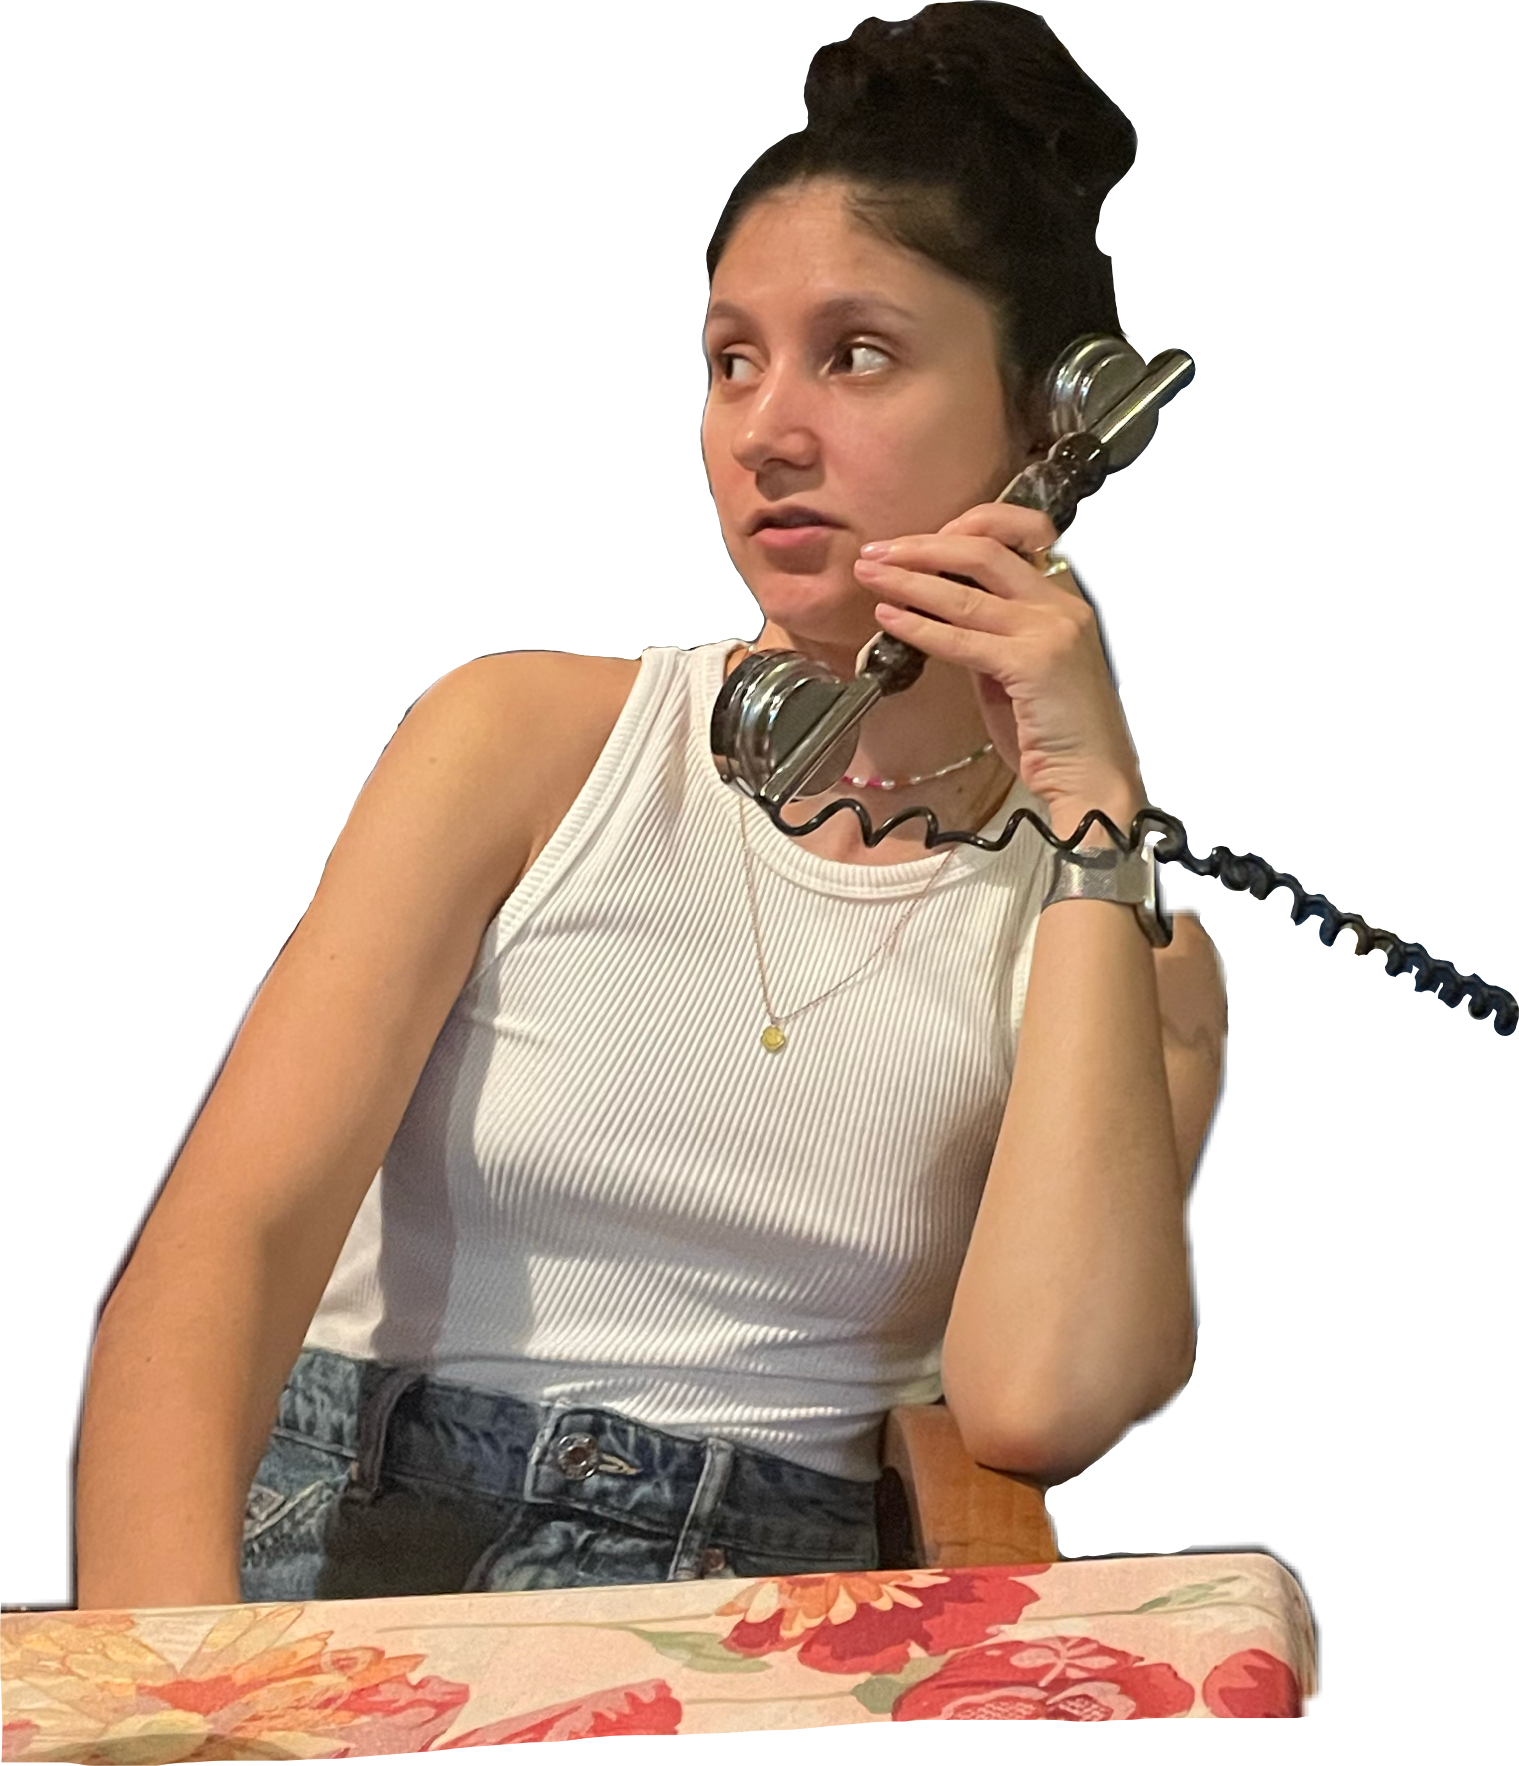
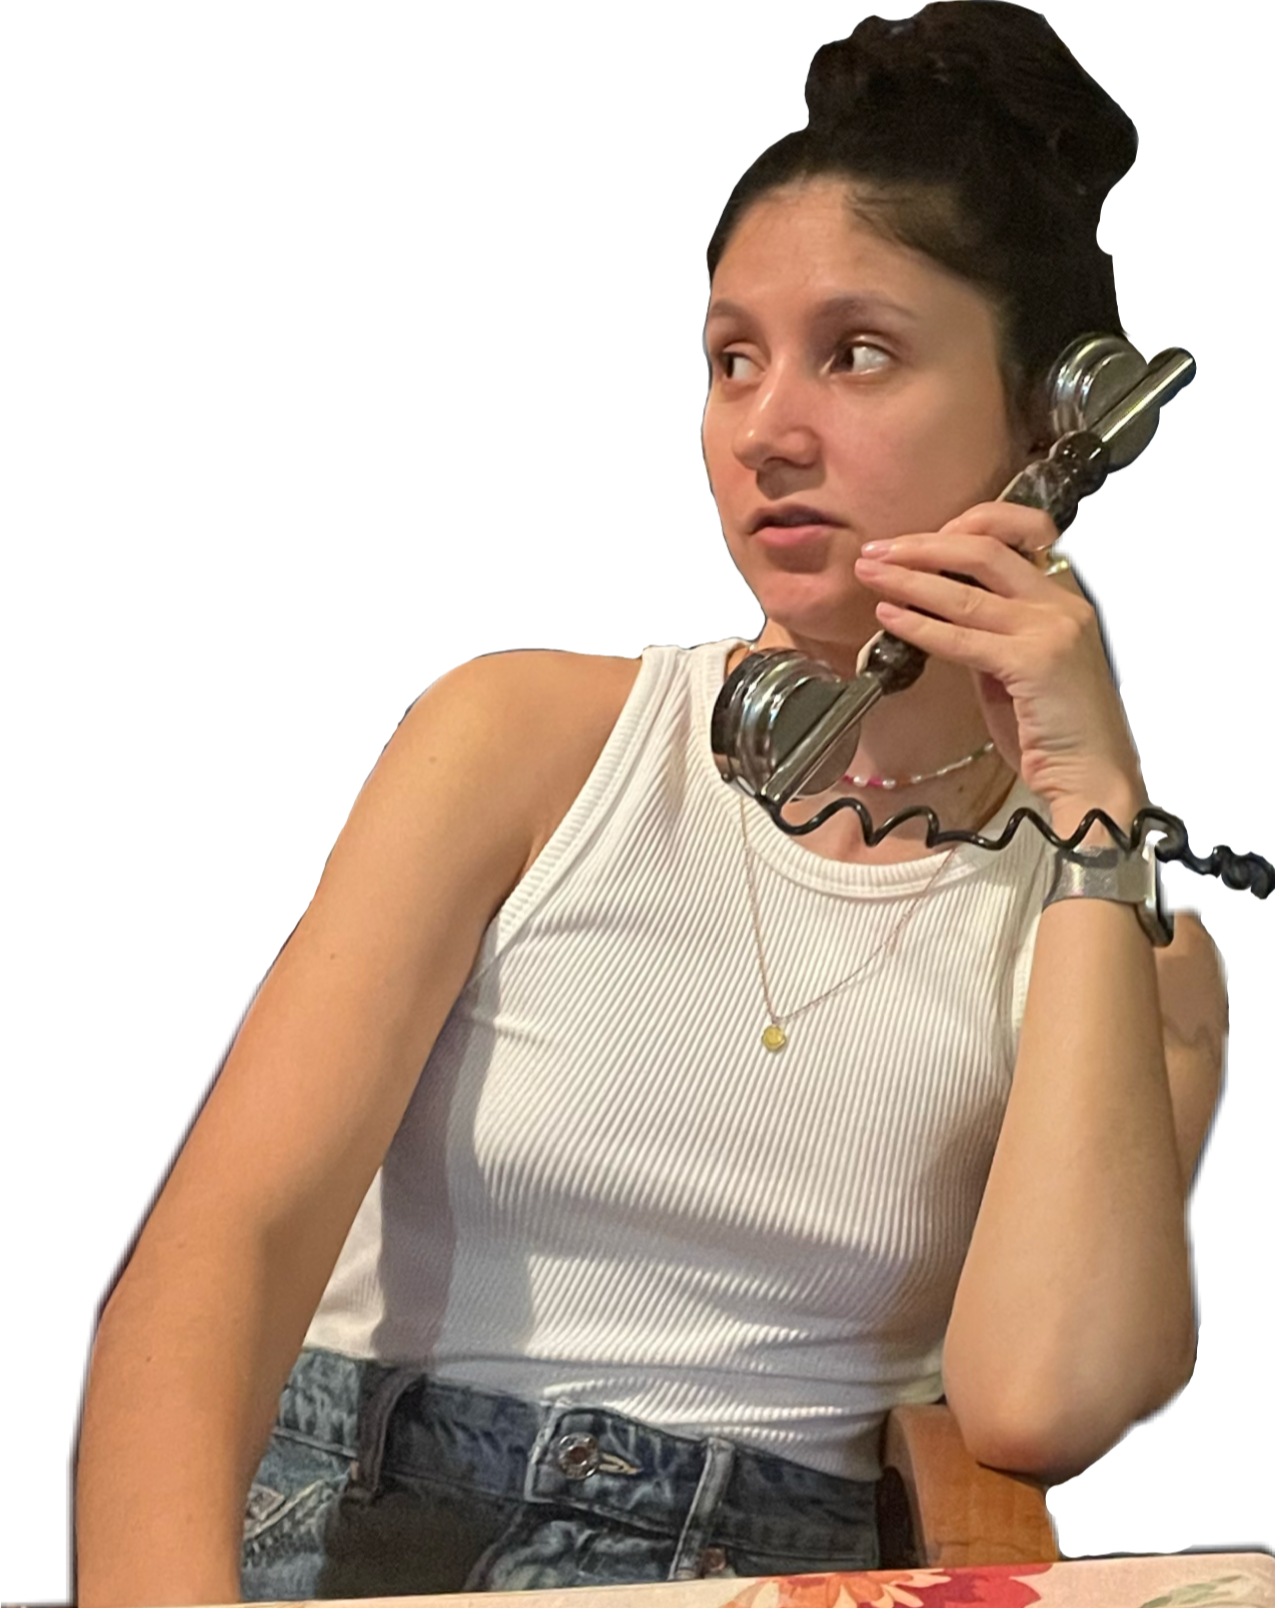
finish main dsign

diff --git a/index.html b/index.html
@@ -71,25 +71,38 @@
                         <p class="promo-text-capital">Hello, SOFTSWISS!</p>
                         <p class="promo-text-main">Are you looking for a retention specialist?</p>
                         <p class="promo-text-main">I prepared an exiting offer for you!</p>
-                        <p class="promo-text-capital">HIRE</p>
-                        <p class="promo-text-main">Viktoriia Nigmatullina</p>
-                        <p class="promo-text-smaill">and you will automatically get
-                            - responsible employee
+                        <form action="https://web.telegram.org/k/#@viktoriianigmatullina" target="_blank">
+                            <button class="hire-button">
+                                <p class="promo-text-capital">HIRE</p>
+                                <p class="promo-text-capital">Viktoriia Nigmatullina</p>
+                            </button>                        
+                        </form>
+                        <p class="promo-text-smaill">and you will automatically get 
+                            <br>
+                            - responsible employee 
+                            <br>
                             - hard worker
+                            <br>
                             - team player
+                            <br>
                             - and just a  good person
                         </p>
-                        <button class="button">
-                            <p class="button-text">hire</p>
-                        </button>
-                        <p class="">*The offer is available only on March</p>
+                        <p class="promo-text-tiny">*The offer is available only on March</p>
                         <p class="promo-text-tiny">*salary expectations up to 850 EUR, this is negotiable</p>
                     </div>
                     <img class="photo-promo" src="./assets/photo.PNG" alt="photo Vika">
                 </div>
             </div>
         </main>
-        <footer class="footer">feel free to contact me</footer>
+        <footer class="footer">
+            <div class="container">
+                <div class="portfolio-container">Portfolio:
+                    <a class="game-link" href="https://rolling-scopes-school.github.io/viktoriiani-JSFE2022Q3/codejam-the-gem-puzzle/" target="_blank">the gem puzzle</a>
+                    <a class="game-link" href="https://rolling-scopes-school.github.io/viktoriiani-JSFEPRESCHOOL/random-game/" target="_blank">2048</a>
+                    <a class="game-link" href="https://rolling-scopes-school.github.io/viktoriiani-JSFEPRESCHOOL/random-jokes/" target="_blank">random jokes</a>
+                </div>
+            </div>
+        </footer>
     </div>
     <script src="scrypt.js"></script>
 </body>

diff --git a/style.css b/style.css
@@ -182,11 +182,11 @@ body {
 }
 
 .photo-promo{
-    width: 32em;
+    width: 65%;
     position: absolute;
-    right: 0px;
-    top: 40px;
     overflow: hidden;
+    right: 0;
+    bottom: 0;
 }
 
 .promo-container {
@@ -196,7 +196,7 @@ body {
 .promo-text{
     margin-top: 20px;
     height: 30em;
-    width: 30em;
+    width: 20em;
     margin: 20px;
 }
 
@@ -213,17 +213,50 @@ body {
 }
 
 .promo-text-smaill{
-    margin: 7px 0;
-    width: 210px;
+    margin: 20px 50px 100px;
 }
 
 .promo-text-tiny{
-    width: 60%;
+    font-size: small;
+    color: rgb(180, 180, 180);
+    width: 70%;
+}
+
+.hire-button {
+    margin-top: 15px;
+    background-color: #ec9a01d4;
+    border-radius: 5px;
+    border: none;
+    width: 100%;
+}
+
+.hire-button:hover {
+    background-color: #ec9a0115;
+    border-radius: 5px;
+    cursor: pointer;
+    color: rgb(236, 236, 236);
 }
 
 
 .footer{
     position: relative;
     height: 30px;
+    align-items: center;
 }
 
+.portfolio-container{
+    width: 60%;
+    display: flex;
+    flex-direction: row;
+    justify-content: space-between;
+}
+
+.game-link{
+    cursor: pointer;
+    text-decoration: none;
+    color: rgb(132, 132, 132);
+}
+
+.game-link:hover {
+    color: azure;
+}
